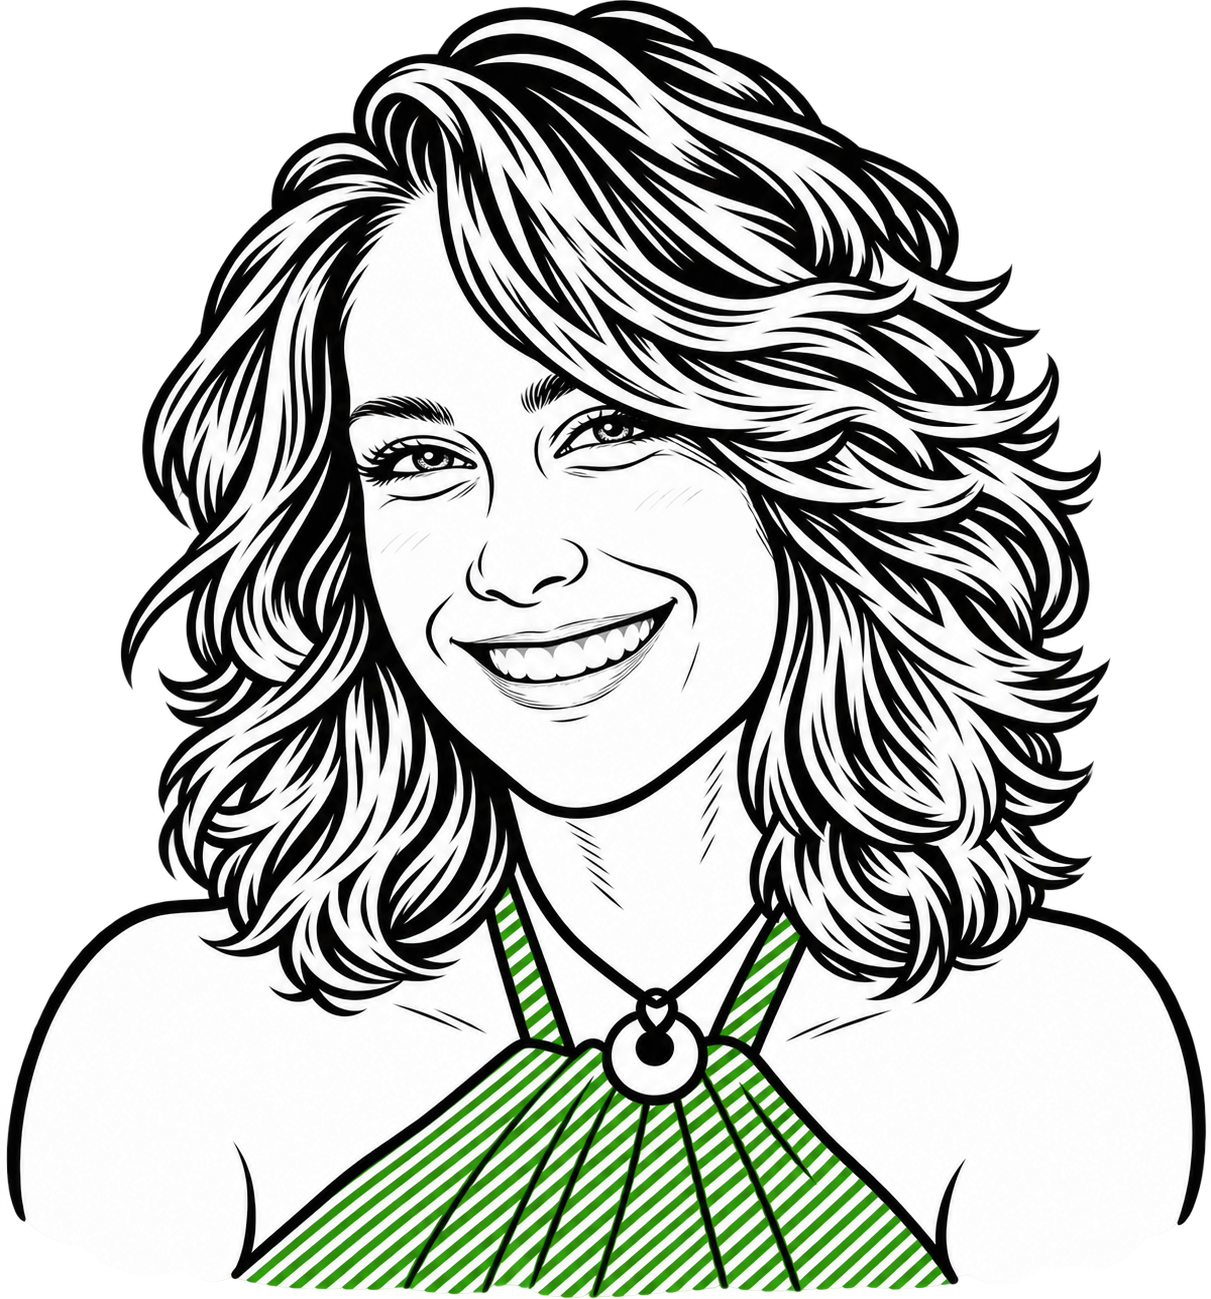
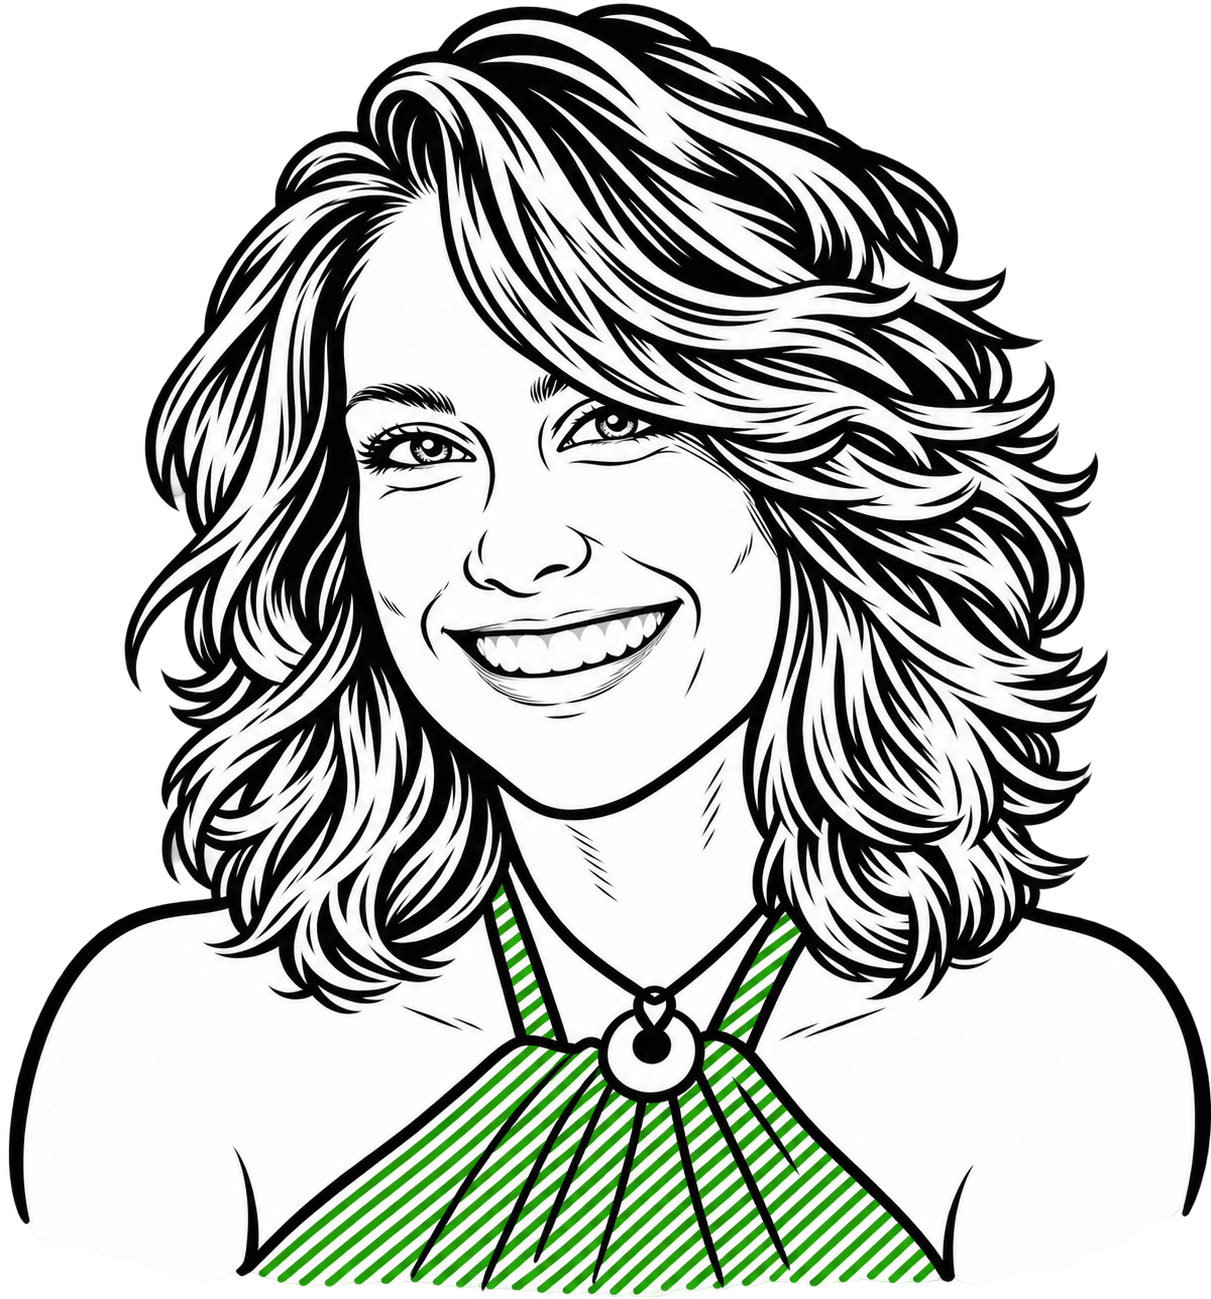
Use 3px team hover lift and refresh t9h and t11h portraits

diff --git a/MSC-v2/js/team.js b/MSC-v2/js/team.js
@@ -133,13 +133,13 @@
     panel.classList.remove('is-scrollable');
     const collage = canvas.getBoundingClientRect();
     const button = active.button;
-    // Reserve the union of the resting frame and its 5px upward hover motion.
+    // Reserve the union of the resting frame and its 3px upward hover motion.
     const width = button.offsetWidth;
     const height = button.offsetHeight;
     const target = {
       left: collage.left + button.offsetLeft,
       right: collage.left + button.offsetLeft + width,
-      top: collage.top + button.offsetTop - 5,
+      top: collage.top + button.offsetTop - 3,
       bottom: collage.top + button.offsetTop + height
     };
     const gap = 6;

diff --git a/MSC-v2/css/team.css b/MSC-v2/css/team.css
@@ -41,7 +41,7 @@
 .msc-team-composite.has-active .msc-team-member:not(.is-active) img {
   filter: url("#msc-team-muted");
 }
-.msc-team-member.is-active { translate: 0 -5px; }
+.msc-team-member.is-active { translate: 0 -3px; }
 .msc-team-hover { opacity: 0; }
 .msc-team-member.is-active .msc-team-default { opacity: 0; }
 .msc-team-member.is-active .msc-team-hover { opacity: 1; }
@@ -114,3 +114,4 @@
   .msc-team-panel { transition: none; transform: none; }
   .msc-team-member { transition: none; }
 }
+
